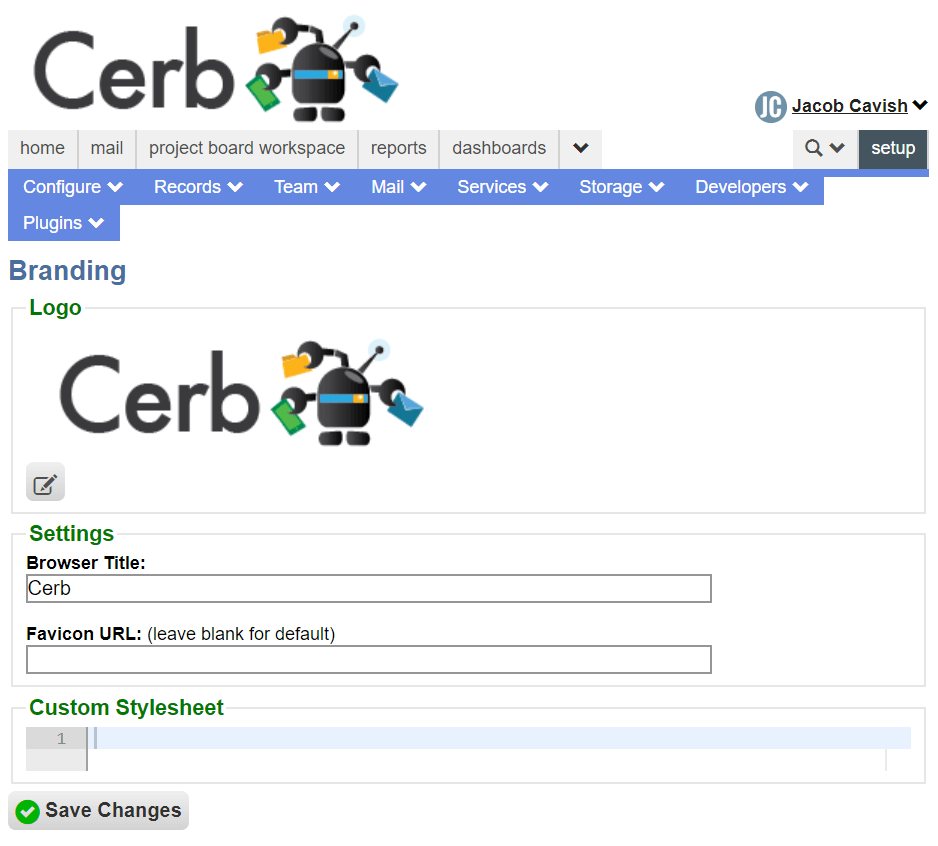
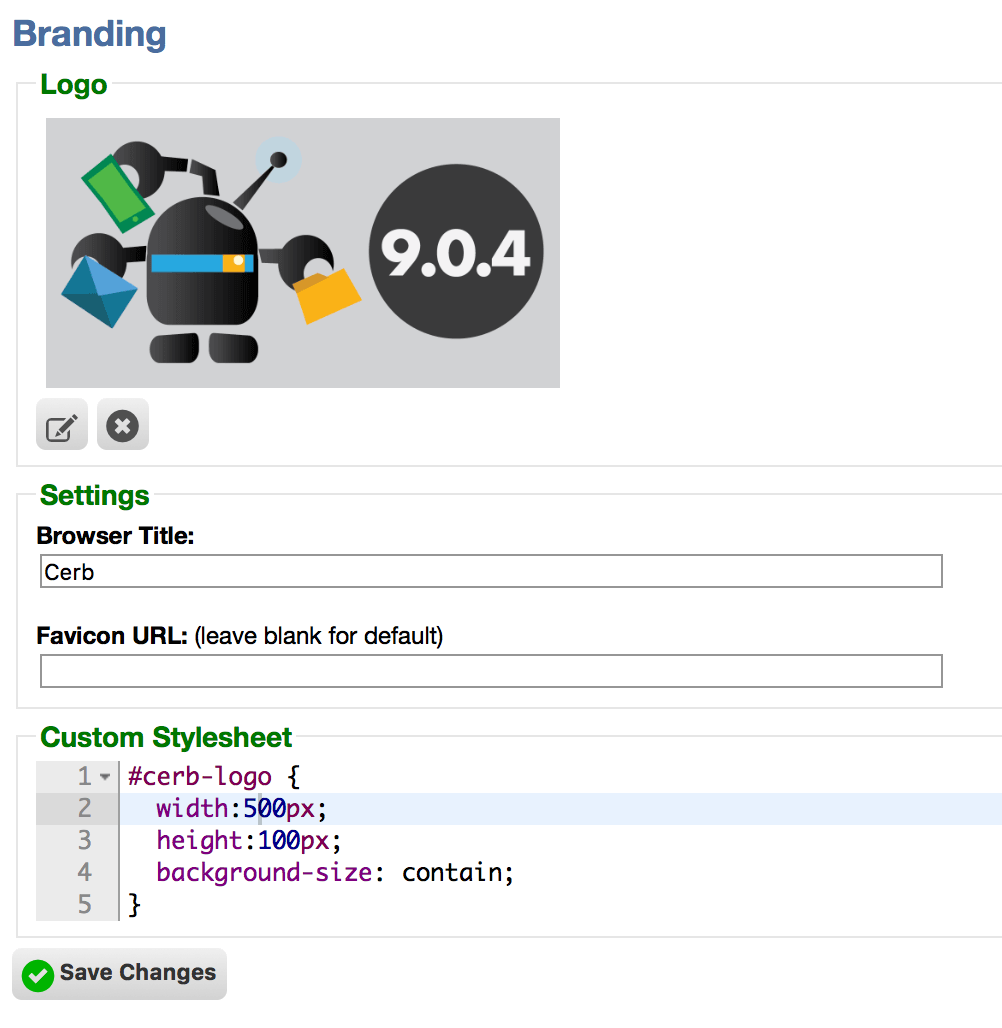
[Docs/Setup] Updated the Branding page to reflect 9.0 improvements.

diff --git a/_docs/admin/setup/configure/branding.md b/_docs/admin/setup/configure/branding.md
@@ -16,19 +16,50 @@ Navigate to **Setup** >> **Configure** >> **Branding**
 <img src="/assets/images/docs/setup/branding.png" class="screenshot">
 </div>
 
-You can add your own logo to the top left using three different ways.
+# Logo
 
-In the bottom left of the default logo there is an edit button below the image in the **Logo** section. Clicking
-that button will allow you to upload an image directly from your machine into Cerb.
+You can personalize your Cerb instance by uploading your organization's logo.
 
-The **Custom Stylesheet** allows you to modify your entire instance of Cerb, but you can target your logo to
-manually force its height and width or change its dimensions at certain resolutions. 
+In the **Logo** section, click the edit button below the current logo and select an image file from your machine.
 
-You can also use the **Favicon URL** from your organization's website. 
-This is the icon that people see when they add links to their bookmarks.  For example: `http://example.com/favicon.ico`
+To reset back to the default logo, click the remove button below the current logo image.
+
+# Settings
 
 The **Browser Title** is the label you see on browser tabs and saved bookmarks by default.
 
-When finished, click the **Save Changes** button.
+You can configure your **Favicon URL** from your organization's website. This is the icon that people see when they add links to their bookmarks. 
+
+For example: `http://example.com/favicon.ico`
+
+# Custom Stylesheet
+
+You can provide your own stylesheet to modify the overall _"look and feel"_ of Cerb's interface.
+
+Using the `#cerb-logo` selector you can target the logo. This is useful if you want to add responsiveness or interactivity -- like using a smaller logo image on narrow screens and a higher resolution image on retina displays.
+
+To reference a logo you previously uploaded, use:
+
+<pre>
+<code class="language-css">
+#cerb-logo {
+  background-image:url(logo?v=1);
+}
+</code>
+</pre>
+
+<div class="cerb-box note">
+<p>If you refer to <tt>url(logo)</tt> manually then you should increment a version counter to prevent browsers from serving a stale cached image. If you let Cerb manage the logo it will do this for you automatically.</p>
+</div>
+
+You can also use an external logo URL like:
+
+<pre>
+<code class="language-css">
+#cerb-logo {
+  background-image:url(https://example.com/logo.png);
+}
+</code>
+</pre>
 
 {% include setup_toc.html %}
